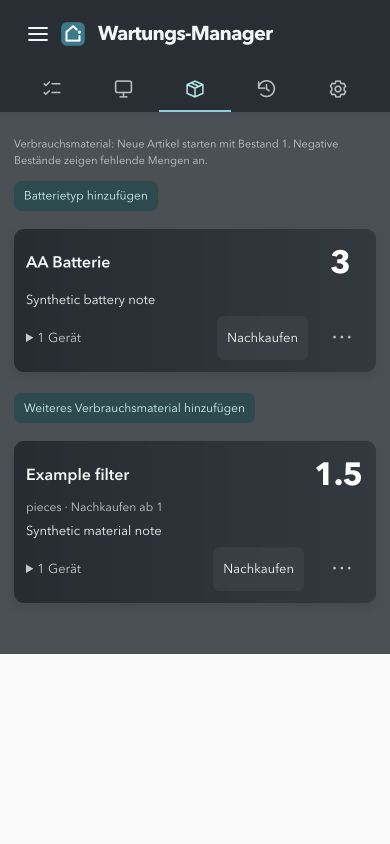
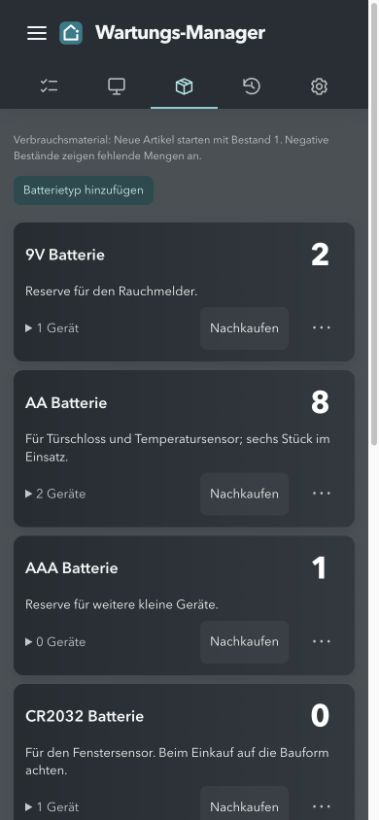
Automatische Abläufe und aussagekräftige Screenshots dokumentieren

diff --git a/scripts/seed_demo.py b/scripts/seed_demo.py
@@ -1,0 +1,141 @@
+"""Seed an isolated lifecycle-test container with entirely fictional German data.
+
+Run only inside a disposable container created by test_ha_lifecycle.py --keep:
+    docker exec CONTAINER python /qa/seed_demo.py
+There is deliberately no server URL option and no production credentials input.
+All writes use Home Assistant REST/WebSocket APIs, never its .storage files.
+"""
+from __future__ import annotations
+
+import asyncio
+from datetime import date, timedelta
+import json
+
+from aiohttp import ClientSession, ClientTimeout
+
+from ha_lifecycle_probe import API, STATE, check
+
+
+def months_before(day: date, months: int) -> date:
+    """Use a safe mid-month date for reproducible interval demonstrations."""
+    index = day.year * 12 + day.month - 1 - months
+    year, month = divmod(index, 12)
+    return date(year, month + 1, min(day.day, 28))
+
+
+async def main():
+    state = json.loads(STATE.read_text())
+    async with ClientSession(timeout=ClientTimeout(total=20)) as session:
+        api = API(session, state['token'])
+        config = await api.request('GET', '/api/config')
+        check(config.get('location_name') == 'Release validation', 'Not the isolated release-test installation')
+        previous = await api.action('export')
+        check(all(identity.startswith(('fixture-', 'demo-')) for identity in previous['devices']),
+              'Refusing to replace anything except synthetic test/demo devices')
+        await api.mutate('reset_all_data', confirmed=True, confirmation='DATEN ZURÜCKSETZEN')
+        helpers = await api.ws({'type': 'input_number/list'})
+        if not any(helper['id'] == 'batterien_schwellwert' for helper in helpers):
+            await api.ws({'type': 'input_number/create', 'name': 'Batterien Schwellwert', 'min': 0,
+                          'max': 100, 'step': 1, 'mode': 'slider', 'initial': 20, 'unit_of_measurement': '%'})
+        await api.request('POST', '/api/services/input_number/set_value',
+                          {'entity_id': 'input_number.batterien_schwellwert', 'value': 20})
+        await api.mutate('preferences', value={'currency': 'EUR',
+                         'battery_threshold_entity': 'input_number.batterien_schwellwert'})
+        await api.mutate('settings', value={'enabled': False, 'weekday': 0, 'time': '09:00'})
+        today = date.fromisoformat((await api.action('get', fields=['today']))['today'])
+        devices = [
+            {'id': 'demo-kaffee', 'name': 'Kaffeemaschine', 'manufacturer': 'Demotec', 'model': 'Aroma 7',
+             'category': 'Haushalt', 'notes': 'Fiktives Beispiel: Filter nach Herstellerangabe wechseln. Reinigung bei Geräteanzeige.'},
+            {'id': 'demo-spueler', 'name': 'Geschirrspüler', 'manufacturer': 'Klarwerk', 'model': 'Silent 60',
+             'category': 'Haushalt', 'notes': 'Fiktives Beispiel für eine wiederkehrende Wartungsrotation.'},
+            {'id': 'demo-wasser', 'name': 'Wasserenthärtungsanlage', 'manufacturer': 'Aquanova', 'model': 'Soft 25',
+             'category': 'Haushalt', 'notes': 'Vorrat im Salzbehälter prüfen und bei Bedarf nachfüllen.',
+             'related_devices': [{'id': 'demo-spueler'}]},
+            {'id': 'demo-fenster', 'name': 'Fenstersensor Arbeitszimmer', 'manufacturer': 'DemoSense', 'model': 'Contact 2',
+             'category': 'Tür- und Fenstermelder', 'battery_type': 'CR2032', 'battery_quantity': 1,
+             'battery_entity_id': 'sensor.demo_fenster_batterie', 'battery_alert_enabled': True,
+             'notes': 'Fiktiver Sensor. Der niedrige Batteriestand demonstriert die automatische Warnaufgabe.'},
+            {'id': 'demo-rauch', 'name': 'Rauchmelder Flur', 'manufacturer': 'DemoSafe', 'model': 'Smoke One',
+             'category': 'Gefahrenmelder', 'battery_type': '9V', 'battery_quantity': 1,
+             'battery_entity_id': 'sensor.demo_rauch_batterie', 'battery_alert_enabled': True},
+            {'id': 'demo-maeher', 'name': 'Rasenmäher', 'manufacturer': 'DemoGarden', 'model': 'Green 400',
+             'category': 'Garten', 'notes': 'Vor dem Saisonstart Messer, Räder und Gehäuse prüfen.'},
+            {'id': 'demo-schloss', 'name': 'Türschloss', 'manufacturer': 'DemoAccess', 'model': 'Entry 2',
+             'category': 'Zutritt', 'battery_type': 'AA', 'battery_quantity': 4,
+             'battery_entity_id': 'sensor.demo_schloss_batterie', 'battery_alert_enabled': True,
+             'related_devices': [{'id': 'demo-fenster'}]},
+            {'id': 'demo-thermo', 'name': 'Temperatursensor Wintergarten', 'manufacturer': 'DemoSense', 'model': 'Climate Mini',
+             'category': 'Temperatursensoren', 'battery_type': 'AA', 'battery_quantity': 2,
+             'battery_entity_id': 'sensor.demo_thermo_batterie', 'battery_alert_enabled': True},
+        ]
+        for device in devices:
+            await api.mutate('save_device', value=device)
+        for entity, value in [('fenster', 12), ('rauch', 88), ('schloss', 46), ('thermo', 64)]:
+            await api.request('POST', '/api/states/sensor.demo_' + entity + '_batterie',
+                              {'state': str(value), 'attributes': {'friendly_name': 'Demo Batteriestand',
+                               'unit_of_measurement': '%', 'device_class': 'battery'}})
+        await api.mutate('battery_inventory', stocks={'CR2032': 0, 'AA': 8, 'AAA': 1, '9V': 2},
+                         thresholds={'CR2032': 1, 'AA': 4, 'AAA': 2, '9V': 1},
+                         notes={'CR2032': 'Für den Fenstersensor. Beim Einkauf auf die Bauform achten.',
+                                'AA': 'Für Türschloss und Temperatursensor; sechs Stück im Einsatz.',
+                                'AAA': 'Reserve für weitere kleine Geräte.', '9V': 'Reserve für den Rauchmelder.'})
+        for material in [
+            {'id': 'demo-filter', 'name': 'Wasserfilter', 'unit': 'Stück', 'quantity': 1, 'threshold': 1,
+             'notes': 'Passend zur Demo-Kaffeemaschine. Ein Filter pro Wechsel.', 'device_ids': ['demo-kaffee']},
+            {'id': 'demo-salz', 'name': 'Regeneriersalz', 'unit': 'kg', 'quantity': 4.5, 'threshold': 5,
+             'notes': 'Tablettensalz trocken lagern. Nachkauf in 10-kg-Säcken.', 'device_ids': ['demo-wasser']},
+            {'id': 'demo-reiniger', 'name': 'Maschinenreiniger', 'unit': 'Flasche', 'quantity': 3, 'threshold': 1,
+             'notes': 'Eine Flasche pro Intensivreinigung. Packungsanleitung beachten.', 'device_ids': ['demo-spueler']},
+        ]:
+            await api.mutate('save_consumable', value=material)
+        coffee_completed = months_before(today - timedelta(days=3), 2)
+        dishwasher_completed = months_before(today - timedelta(days=2), 1)
+        rules = [
+            {'id': 'demo-filter-wechsel', 'device_id': 'demo-kaffee', 'name': 'Wasserfilter wechseln',
+             'kind': 'interval', 'months': 2, 'days': 0, 'first_due': coffee_completed.isoformat(),
+             'consumable': {'kind': 'material', 'id': 'demo-filter', 'quantity': 1}},
+            {'id': 'demo-spueler-pflege', 'device_id': 'demo-spueler', 'name': 'Maschinenpflege',
+             'kind': 'rotation', 'months': 1, 'first_due': dishwasher_completed.isoformat(),
+             'steps': ['Intensivreinigung', 'Sieb und Sprüharme reinigen'],
+             'consumables_by_step': {'Intensivreinigung': {'kind': 'material', 'id': 'demo-reiniger', 'quantity': 1}}},
+            {'id': 'demo-salz-pruefen', 'device_id': 'demo-wasser', 'name': 'Salz nachfüllen',
+             'kind': 'date', 'due_date': today.isoformat(),
+             'consumable': {'kind': 'material', 'id': 'demo-salz', 'quantity': 2.5}},
+            {'id': 'demo-rauch-test', 'device_id': 'demo-rauch', 'name': 'Funktionstest durchführen',
+             'kind': 'date', 'due_date': (today + timedelta(days=7)).isoformat()},
+            {'id': 'demo-maeher-service', 'device_id': 'demo-maeher', 'name': 'Saisonstart vorbereiten',
+             'kind': 'season', 'month': 3, 'day': 15, 'weekday': 5, 'first_cycle': today.year + 1},
+            {'id': 'demo-schloss-pruefen', 'device_id': 'demo-schloss', 'name': 'Zutrittscodes prüfen',
+             'kind': 'date', 'due_date': (today + timedelta(days=3)).isoformat(),
+             'booked': (today + timedelta(days=3)).isoformat()},
+        ]
+        for rule in rules:
+            await api.mutate('save_rule', value=rule)
+        await api.mutate('complete', rule_id='demo-filter-wechsel', operation_id='demo-filter-completion',
+                         event_date=coffee_completed.isoformat(), note='Wasserfilter wechseln — Filter eingesetzt und gespült.',
+                         consume_material=True)
+        await api.mutate('complete', rule_id='demo-spueler-pflege', operation_id='demo-clean-completion', cycle=0,
+                         event_date=dishwasher_completed.isoformat(), note='Reinigungsprogramm vollständig durchgeführt.',
+                         consume_material=True)
+        for log in [
+            {'id': 'demo-kauf', 'device_id': 'demo-kaffee', 'kind': 'purchase',
+             'event_date': (today - timedelta(days=240)).isoformat(), 'cost': 649,
+             'note': 'Kaffeemaschine gekauft. Fiktives Beispiel ohne Händlerbeleg.'},
+            {'id': 'demo-maeher-historie', 'device_id': 'demo-maeher', 'kind': 'maintenance',
+             'event_date': (today - timedelta(days=180)).isoformat(), 'cost': 79,
+             'note': 'Messer ersetzt, Gehäuse gereinigt und Funktionsprüfung durchgeführt.'},
+        ]:
+            await api.mutate('add_log', value=log)
+        result = await api.action('get')
+        check(len(result['devices']) == 8, 'Expected eight fictional devices')
+        check(len(result['rules']) == 6 and len(result['logs']) == 4, 'Expected six tasks and four history entries')
+        check(result['settings']['consumables']['demo-filter']['quantity'] == 0, 'Confirmed material consumption')
+        check(sum(not item.get('done') for item in result['shopping'].values()) == 4, 'Expected four automatic purchase reminders')
+        check(any(view['status'] == 'overdue' for view in result['views']), 'Expected overdue task')
+        check((await api.request('GET', '/api/states/sensor.demo_fenster_batterie'))['state'] == '12', 'Low-battery demo state')
+        print('PASS: 8 fictional devices, 6 tasks, 4 history entries, 4 automatic purchase reminders; battery example 12 % / 20 %')
+        print('Demo data is intentionally synthetic. REST-created battery states are temporary and disappear on restart.')
+
+
+if __name__ == '__main__':
+    asyncio.run(main())

diff --git a/README.md b/README.md
@@ -2,29 +2,128 @@
 
 <img src="custom_components/ha_wartung/brand/icon.png" alt="Wartungs-Manager-Symbol" width="64" height="64">
 
-Lokale Geräteakten, Wartungsaufgaben, Historie und Verbrauchsmaterial für Home Assistant.
+Automatisierte Wartungsplanung und Vorratsverwaltung für Home Assistant – mit Geräteakten, sensorabhängigen Aufgaben und einer nachvollziehbaren Historie.
+
+Einmal Regeln und Zuordnungen festlegen: Der Wartungs-Manager berechnet Fälligkeiten, zeigt Batteriewarnungen an und erstellt Nachkaufaufträge bei niedrigen Beständen. Bestätigte Erledigungen schreiben die Historie und die nächste Wartung fort; verknüpftes Verbrauchsmaterial wird nach deiner Bestätigung vom Bestand abgezogen.
 
 [English documentation](README.en.md) · [Problem melden](https://github.com/Raffaelloo22/homeassistant-wartungs-manager/issues)
 
-## Vorschau
+## Was automatisch passiert
 
-Die Bilder stammen aus einer isolierten Home-Assistant-Testinstallation mit erfundenen Einträgen. Die Integration startet ohne Gerätedaten.
+| Ablauf | Auslöser | Ergebnis |
+| --- | --- | --- |
+| **Wartungstermine berechnen** | Eine gespeicherte Regel und das aktuelle Datum | Fällige, überfällige und kommende Aufgaben werden einsortiert. Nach einer Erledigung werden Intervall, Saisonzyklus oder nächster Rotationsschritt berücksichtigt. |
+| **Sensorabhängig erinnern** | Ein zugeordneter numerischer Sensor meldet einen Wert unter der eingestellten Schwelle | Die Wartungsaufgabe wird fällig. Unbekannte oder ungültige Werte werden als ausstehend behandelt. |
+| **Batteriewechsel anzeigen** | Ein gültiger Batteriestand unterschreitet den gemeinsamen Home-Assistant-Schwellenwert | In der geöffneten Aufgabenansicht erscheint eine Batterieaufgabe mit Anzahl und Typ, sofern diese erfasst sind. Batteriestand und Warnschwelle sind nachvollziehbar sichtbar. |
+| **Materialverbrauch buchen** | Du erledigst eine verknüpfte Aufgabe und bestätigst den Bestandsabzug | Die vorgesehene Menge wird abgezogen und mit Material und Menge in der Historie dokumentiert. Der Dialog zeigt vorab den Bestand vorher und nachher. Bei Batterien stammt die Menge aus der Geräteakte. |
+| **Nachkaufaufträge erstellen** | Nach einer Bestandsänderung liegt ein Artikel auf oder unter seiner individuellen Nachkaufgrenze | Unter **Aufgaben → Nachkaufen** erscheint der passende Artikel. Nach einem eingetragenen Einkauf steigt sein Bestand; reicht er wieder über die Grenze, ist der automatische Nachkauf erledigt. |
+| **Geräteinformationen übernehmen** | Du bestätigst eine Sammelerfassung ausgewählter HA-Gerätetypen | Bezeichnung, Hersteller, Modell und HA-Verknüpfung werden übernommen; der Gerätetyp bestimmt eine passende Kategorie. Bestehende Zuordnungen und mögliche Dubletten werden erkannt. Bereiche folgen der HA-Gerätezuordnung. |
+| **Kaufdatum ergänzen** | Ein Kauf- oder Bestellereignis mit genauem Datum wird in der Historie erfasst | Ein noch leeres Kaufdatum der Geräteakte wird ergänzt. Ein vorhandenes Kaufdatum bleibt erhalten. |
+| **Wochenmeldung zusammenstellen** | Der eingestellte Wochentag und die Uhrzeit sind erreicht | Eine optionale Home-Assistant-Mitteilung fasst offene Wartungen und Nachkäufe zusammen. Dafür muss das Dashboard nicht geöffnet sein. |
 
-![Geräteübersicht auf dem Desktop](docs/images/devices-desktop.jpg)
+Die tatsächliche Erledigung, verbrauchte Mengen und Einkäufe werden von dir bestätigt. Ein Nachkaufauftrag ist eine Einkaufserinnerung; er bestellt keine Ware. Prozentbasierte Batteriewarnungen werden im geöffneten Dashboard berechnet. Gespeicherte Wartungsregeln und Bestandsbuchungen verarbeitet die Integration in Home Assistant.
 
-<img src="docs/images/consumables-mobile.jpg" alt="Kompakte Verbrauchsmaterialansicht auf dem Smartphone" width="320">
+## Screenshots
 
-## Funktionen
+Die drei Übersichtsbilder zeigen eine eingerichtete Installation. Geräteakte, Erledigungsdialog und Smartphone-Aufnahme stammen aus einer separaten Testinstanz mit erfundenen Daten. Eine neue Installation startet ohne Geräte oder Beispielaufgaben.
 
-- Geräte manuell erfassen oder mit Home-Assistant-Geräten verknüpfen; Sammelerfassung mit Vorschau und Duplikatprüfung.
-- Einmalige Termine, Intervalle, Saisonaufgaben, Rotationen und Aufgaben nach Sensorwert oder Geräteanzeige.
-- Erledigungen mit Datum, Kosten und Notizen dokumentieren; Historie bearbeiten und Bestandsabzüge bestätigen.
-- Batterien und weiteres Verbrauchsmaterial mit Mengen, Nachkaufgrenzen, Notizen und Gerätezuordnung verwalten.
-- Niedrige Batteriestände in der Aufgabenansicht anzeigen und Einkäufe vormerken.
-- Aktive Geräte, Lager, Archiv und Papierkorb; Kategorien und Ereignisarten bearbeiten.
-- JSON-Export und bestätigter Import sowie eine optionale Wochenmeldung innerhalb Home Assistant.
+**Aufgaben:** Fällige Arbeiten, Batterieanzahl und -typ sowie Nachkaufbedarf in einer Ansicht.
 
-Auf Smartphones sind die Reiter als Symbole dargestellt. Verbrauchsmaterial-Kacheln zeigen die antippbare Bestandszahl und eine kompakte Aktionszeile.
+![Aufgaben mit Wartungsterminen, Batterieangaben und Nachkäufen](docs/images/tasks-desktop.jpg)
+
+<details>
+<summary>Geräteübersicht mit Kategorien, Verbrauchsmaterial und Batterieangaben</summary>
+
+![Geräteübersicht mit Kategorien und Materialzuordnungen](docs/images/devices-desktop.jpg)
+
+</details>
+
+<details>
+<summary>Verbrauchsmaterial mit Batterien, eigenen Artikeln, Beständen und Nachkaufgrenzen</summary>
+
+![Batterien und weiteres Verbrauchsmaterial mit Beständen, Notizen und Aktionen](docs/images/consumables-desktop.jpg)
+
+</details>
+
+<details>
+<summary>Geräteakte mit Wartung und Historie – Beispiel mit Demodaten</summary>
+
+Die vergangene Filterwartung enthält den gebuchten Materialverbrauch. Aus ihrem Erledigungsdatum wird der nächste Intervalltermin berechnet. Das Kaufereignis ergänzt das Kaufdatum der Akte.
+
+![Geräteakte mit nächster Filterwartung, Kaufdatum und Historie](docs/images/device-detail-desktop.jpg)
+
+</details>
+
+<details>
+<summary>Erledigung mit Bestandsvorschau – Beispiel mit Demodaten</summary>
+
+Vor dem Speichern sind Datum, Materialmenge und resultierender Bestand sichtbar. Der Abzug kann abgewählt werden. Ein negativer Bestand kennzeichnet eine fehlende Menge.
+
+<img src="docs/images/completion-dialog.jpg" alt="Erledigungsdialog mit Datum und bestätigbarem Materialabzug" width="640">
+
+</details>
+
+<details>
+<summary>Verbrauchsmaterial auf dem Smartphone – Beispiel mit Demodaten</summary>
+
+<img src="docs/images/consumables-mobile.jpg" alt="Smartphone-Ansicht mit antippbaren Bestandszahlen, Notizen und kompakten Aktionen" width="320">
+
+</details>
+
+## Funktionen im Detail
+
+### Geräte und Home Assistant
+
+- Manuelle Geräteakten und direkt mit Home Assistant verknüpfte Geräte gemeinsam verwalten: Hersteller, Modell, Kaufdatum, Seriennummer, Batterieangaben und Notizen. Kosten lassen sich bei Historienereignissen erfassen.
+- HA-Geräte gesammelt übernehmen: nach Gerätetyp und Text suchen, pro Typ bereits erfasste Geräte, neue Kandidaten und Konflikte sehen und die Auswahl vor der Übernahme prüfen. Die Sammelerfassung ist wiederholbar und berücksichtigt auch Lager, Archiv und Papierkorb beim Duplikatschutz.
+- Geräte miteinander verknüpfen und die Verknüpfung von beiden Seiten bearbeiten; Gerät und zugehörige Komponenten über anklickbare Tags öffnen.
+- Nach Kategorie, HA-Bereich und Text filtern. Die Suche findet Namen auch ohne Akzente oder Umlaute.
+- Zwischen **Aktiv**, **Lager**, **Archiv** und **Papierkorb** wechseln. Lager und Archiv behalten ihre Akten und Historie, ohne Aufgaben in der aktiven Liste anzuzeigen. Geräte aus dem Papierkorb lassen sich wiederherstellen oder endgültig entfernen.
+- Auf Gerätekacheln Aufgabenanzahl, zugehöriges Verbrauchsmaterial sowie Batteriestand und Warnschwelle sehen.
+
+### Wartung nach Datum, Zyklus oder Sensor
+
+| Fälligkeitsregel | Verwendung |
+| --- | --- |
+| **Termin** | Einmalige Aufgabe an einem Datum. Nach der Erledigung bleibt der Eintrag in der Historie und verschwindet aus den offenen Aufgaben. |
+| **Intervall / Einplanen** | Wiederholung in Monaten und zusätzlichen Tagen ab der tatsächlichen letzten Erledigung. Ein erster Termin oder Planmonat ist möglich; ein noch unbekanntes Intervall bleibt zum Einplanen offen. |
+| **Saison** | Jährlich zu einem Kalenderdatum, optional auf einen bestimmten Wochentag in dessen Nähe gelegt. Unerledigte Jahreszyklen bleiben sichtbar. |
+| **Rotation** | Mehrere Arbeitsschritte abwechselnd in einem festen Monatsabstand ausführen. Nach der Erledigung folgt der nächste Schritt; nach dem letzten beginnt die Folge von vorne. |
+| **Messwert** | Fällig, sobald ein numerischer HA-Sensor die eingestellte Schwelle unterschreitet. Das Formular zeigt den aktuellen Sensorwert und die Einheit. |
+| **Nach Geräteanzeige** | Bei Bedarf gemäss Anzeige am Gerät erledigen. Aus mehreren Erledigungen wird ein unverbindlicher typischer Abstand ermittelt. |
+| **Ohne Fälligkeit** | Eine Arbeit ohne festen Termin vorhalten und bei Bedarf dokumentieren. |
+
+- Aufgaben sind nach **Jetzt erledigen**, **Termin vereinbart**, **Bald fällig**, **Geplant**, **Nach Geräteanzeige** und **Nachkaufen** geordnet, soweit sie zur aktuellen Auswahl passen.
+- **Jetzt** ist die Standardauswahl. **Bald** umfasst morgen bis einschliesslich in 14 Tagen, **Alle** zeigt alle offenen Aufgaben. Die Suche berücksichtigt Gerät und Aufgabentext.
+- Ein gebuchter Ausführungstermin lässt sich zusätzlich zur eigentlichen Fälligkeit erfassen.
+- Sensor und Verbrauchsmaterial über Suchfelder auswählen; bei Rotationen kann jeder Arbeitsschritt ein anderes Material verwenden.
+- Wiederkehrende, aktuell erledigte Aufgaben bleiben in der Geräteakte mit ihrem nächsten Termin zugänglich.
+
+### Verbrauchsmaterial und Nachkaufen
+
+- Batterietypen, Filter, Salz, Reinigungs- und Entkalkungsmittel oder andere eigene Artikel verwalten – jeweils mit Bestand, Nachkaufgrenze, Notizen und Gerätezuordnung.
+- Bei Batterien Typ und Anzahl pro Gerät getrennt erfassen. Geräte erscheinen anhand ihres Batterietyps automatisch in der Verwendungsliste; zusätzliche manuelle Zuordnungen sind möglich. **Geräte anzeigen** nennt die benötigte Batterieanzahl je Gerät. Fest verbaute Akkus werden nicht als Wechselbatterievorrat geführt.
+- Neue Batterietypen starten mit Bestand 1. Weitere Materialien unterstützen eigene Einheiten, Dezimalmengen und einen zunächst unbekannten Bestand; negative Bestände zeigen fehlende Mengen an.
+- Bestand direkt über die grosse Zahl bearbeiten. **Nachkaufen** erfasst auch unabhängig von der Grenze einen manuellen Nachkaufauftrag mit gewünschter Menge.
+- Aufgaben mit Material verknüpfen. Die Erledigung zeigt die Verbrauchsmenge und den resultierenden Bestand vor dem bestätigten Abzug. Eine Geräte-Material-Verknüpfung dient der Zuordnung; für den Verbrauch wird das Material zusätzlich mit der Aufgabe verknüpft.
+- **Eingekauft** fragt die tatsächlich gekaufte Menge ab und addiert sie zum Bestand. Automatische Nachkäufe bleiben bei weiterhin zu niedrigem Bestand offen. Artikelnotizen sind auch beim Nachkauf sichtbar und bearbeitbar.
+
+### Historie, Korrekturen und Rückgängig
+
+- Eine Erledigung erzeugt einen Historieneintrag mit dem ursprünglichen Aufgabentext und dem gewählten Datum. Datum per **Heute**, Tageswechsel oder Kalender wählen; Kosten und Notizen ergänzen.
+- Wartung, Reparatur, Prüfung, Kauf und eigene Ereignisarten nachtragen. In der Geräteakte steht die vollständige Historie. **Log** bündelt die Wartungs- und weiteren Serviceereignisse mit Datum, Erfassungszeit, Textsuche und Gerätelink; Kauf- und reine Notizeinträge stehen in der Geräteakte.
+- Historieneinträge bearbeiten oder entfernen. Verknüpfte Wartungsdaten werden nachgeführt; beim Entfernen eines gebuchten Verbrauchs wird die protokollierte Menge dem aktuellen Bestand wieder gutgeschrieben.
+- Eine gerade gespeicherte Erledigung für 30 Sekunden mit **Rückgängig** zurücknehmen. Dabei werden auch zugehöriger Materialverbrauch und Aufgabenzustand zurückgesetzt. Zwischenzeitliche Änderungen werden geschützt.
+
+### Einstellungen und Datenqualität
+
+- Kategorien und Ereignisarten hinzufügen, umbenennen, entfernen und per Drag-and-drop sortieren; die jeweilige Anzahl zugehöriger Einträge sehen.
+- Batterieschwelle per Schieberegler direkt mit einem Home-Assistant-Helfer synchronisieren. Den Standardhelfer prüft und erstellt das geöffnete Dashboard bei Bedarf selbst; alternativ kann ein vorhandener Helfer gewählt werden.
+- Währung sowie Tag und Uhrzeit der Wochenmeldung einstellen; eine Testmeldung auslösen.
+- **Datenprüfung** aufrufen: fehlende HA-Geräte und Sensoren, unvollständige Batterieangaben, ungültige Materialzuordnungen, verwaiste Verknüpfungen und mögliche Dubletten mit Links zu den betroffenen Akten prüfen. Die Prüfung verändert keine Daten.
+- Verzeichnis inklusive Einstellungen als JSON exportieren und nach ausdrücklicher Bestätigung wiederherstellen. **Daten zurücksetzen** entfernt Gerätedaten, Aufgaben und Vorräte; Kategorien, Ereignisarten und allgemeine Einstellungen bleiben erhalten.
+
+Auf Desktop und Smartphone bleiben dieselben Funktionen verfügbar. Auf dem Smartphone verwenden die Reiter Symbole und Verbrauchsmaterial-Kacheln eine kompakte Aktionszeile. Die geöffnete Oberfläche aktualisiert Daten regelmässig und übernimmt Batteriewerte aus Home Assistant; offene Formulare werden dabei geschützt.
 
 ## Voraussetzungen
 

diff --git a/README.en.md b/README.en.md
@@ -2,26 +2,73 @@
 
 <img src="custom_components/ha_wartung/brand/icon.png" alt="Wartungs-Manager icon" width="64" height="64">
 
-A local maintenance dashboard for Home Assistant: device records, recurring and one-off tasks, service history, batteries and other consumables.
+Automated maintenance planning and consumable stock management for Home Assistant, with device records, sensor-based tasks and an editable service history.
+
+Configure rules and links once: Wartungs-Manager calculates due dates, displays battery warnings and creates purchase reminders when stock runs low. Confirmed completions record history, advance recurring work and optionally deduct linked materials.
 
 [Deutsche Anleitung](README.md) · [Report a problem](https://github.com/Raffaelloo22/homeassistant-wartungs-manager/issues)
 
-## Preview
+## Automatic workflows
 
-Screenshots from an isolated Home Assistant test installation using fictitious records. The installed integration starts empty.
+| Workflow | What happens |
+| --- | --- |
+| **Due dates and cycles** | Saved rules calculate overdue, current and future work. Completing an interval task schedules its next date from the actual completion. Seasonal cycles and rotating work steps advance when completed. |
+| **Sensor-based maintenance** | A valid numeric Home Assistant sensor reading strictly below the configured threshold makes a task due. Unavailable or invalid readings remain pending. |
+| **Battery warnings** | The open dashboard adds a battery-change task when a valid percentage is strictly below the shared helper value. Battery quantity and type come from the device record. |
+| **Confirmed stock usage** | A completion can deduct its linked material. Battery quantity comes from the device; other material quantities come from the task or current rotation step. The dialog previews the resulting stock before confirmation. |
+| **Purchase reminders** | Stock at or below an item's threshold creates a purchase reminder. A recorded purchase adds the entered quantity; the automatic reminder is complete once stock exceeds the threshold. |
+| **Device capture** | Confirmed bulk capture classifies selected HA devices, suggests categories and checks existing links and possible duplicates. Areas follow the linked HA device. |
+| **Purchase dates** | A dated purchase/order event fills an empty device purchase date while preserving an existing date. |
+| **Weekly summary** | An optional scheduled Home Assistant persistent notification summarizes stored maintenance tasks and open purchases, even while the dashboard is closed. |
 
-![Device directory on desktop](docs/images/devices-desktop.jpg)
+Completions, consumption and purchases need your confirmation. Purchase reminders do not place orders. Percentage-based battery warnings are calculated in the open dashboard and are not part of the background weekly summary.
 
-<img src="docs/images/consumables-mobile.jpg" alt="Compact consumable inventory on a phone" width="320">
+## Screenshots
+
+The three overview images show a configured installation. The device record, completion dialog and phone view use fictional records in an isolated test installation. New installations start empty.
+
+![Tasks with due dates, battery quantities and purchase reminders](docs/images/tasks-desktop.jpg)
+
+<details>
+<summary>Device overview</summary>
+
+![Devices grouped by category, with consumables and battery information](docs/images/devices-desktop.jpg)
+
+</details>
+
+<details>
+<summary>Battery and consumable inventory</summary>
+
+![Stock, purchase thresholds, notes and inventory actions](docs/images/consumables-desktop.jpg)
+
+</details>
+
+<details>
+<summary>Device record and completion dialog — fictional examples</summary>
+
+![Device record showing purchase date, recurring work and recorded material consumption](docs/images/device-detail-desktop.jpg)
+
+<img src="docs/images/completion-dialog.jpg" alt="Completion dialog with date, material quantity and stock preview" width="640">
+
+</details>
+
+<details>
+<summary>Phone layout — fictional example</summary>
+
+<img src="docs/images/consumables-mobile.jpg" alt="Compact stock buttons, notes and actions on a phone" width="320">
+
+</details>
 
 ## What it does
 
 - Keep manual device records or link them to Home Assistant devices. Import selected Home Assistant device types with a preview and duplicate checks.
-- Plan tasks by date, interval, season, rotation, sensor value or device indication. Record completion dates, costs and notes, and edit the resulting history.
+- Plan tasks by one-off date, interval, annual season, rotating work steps, sensor value, device indication or without a due date. A rotation can link a different material to each step. Record completion dates, costs and notes, and edit the resulting history.
 - Link tasks to batteries or other consumables. Confirm stock deductions on completion; quantities for batteries come from the device record.
-- Track stock, purchase thresholds, purchase requests, notes and the devices that use each item.
+- Track stock, individual purchase thresholds, purchase requests, notes and the devices that use each item. Battery usage lists include the required quantity per device; linked purchase notes are shared with the material.
 - Find low batteries in the task view using a shared Home Assistant threshold helper.
-- Organize devices as active, stored, archived or in the trash; edit categories and event types.
+- Organize devices as active, stored, archived or in the trash; link related devices in both directions, and edit or reorder categories and event types. Stored and archived devices retain history without active reminders.
+- Run a read-only data check for missing HA links, invalid material assignments, incomplete battery details and possible duplicates.
+- Undo a recent completion for 30 seconds, including its associated stock deduction. History corrections update linked maintenance state; removing a recorded consumption returns its quantity to current stock.
 - Export and import the directory as JSON. An optional weekly summary appears as a Home Assistant persistent notification.
 
 The dashboard has **Aufgaben** (tasks), **Geräte** (devices), **Verbrauchsmaterial** (consumables), **Log** and **Einstellungen** (settings). On phones, the tabs use icons and consumables use compact cards with a stock button and an actions menu.

diff --git a/CONTRIBUTING.md b/CONTRIBUTING.md
@@ -26,9 +26,21 @@ Das Testskript erstellt eine isolierte temporäre Konfiguration, bindet den Zugr
 
 Behalte die Domäne `ha_wartung` und die Kompatibilität mit gespeicherten Daten bei. Neue Einstellungen benötigen Standardwerte, die bestehende Installationen erhalten. Ändere Geräte-, Entitäts- oder Helferkennungen nicht automatisch.
 
+## Demo für Screenshots
+
+Eine getrennte Testinstallation mit erfundenen Geräten, Wartungen, Batteriewarnung und automatischen Nachkäufen lässt sich so vorbereiten:
+
+```sh
+python3 scripts/test_ha_lifecycle.py --version 2026.11.2 --keep
+# Den vom Test ausgegebenen Containernamen einsetzen:
+docker exec CONTAINER python /qa/seed_demo.py
+```
+
+`seed_demo.py` ersetzt ausschliesslich die künstlichen Daten einer erkannten Release-Testinstallation. Es hat keine Server-URL-Option und nimmt keine Produktionszugangsdaten entgegen. Die erzeugten Batterie-Sensorzustände dienen nur der Demonstration und verschwinden beim Neustart. Testcontainer nach den Aufnahmen wieder entfernen. Die drei bereitgestellten Übersichtsbilder in der README zeigen eine eingerichtete Installation; die ergänzenden Detail- und Smartphone-Aufnahmen stammen aus dieser Demo.
+
 ## Testdaten und Meldungen
 
-Verwende erfundene Namen, Beispielkennungen und reservierte Beispiel-URLs. Nimm keine echten Exporte, `.storage`-Dateien, Zugriffstoken, Gerätefotos oder Bildschirmfotos aus einem Haushalt ins Repository auf. Tests sollen das Verhalten prüfen und nicht lediglich die Implementierung nachbilden.
+Verwende erfundene Namen, Beispielkennungen und reservierte Beispiel-URLs. Nimm keine echten Exporte, `.storage`-Dateien, Zugriffstoken oder Gerätefotos ins Repository auf. Dokumentations-Screenshots stammen aus der Demo oder wurden ausdrücklich für die öffentliche Dokumentation bereitgestellt; die Herkunft wird in der README kenntlich gemacht. Tests sollen das Verhalten prüfen und nicht lediglich die Implementierung nachbilden.
 
 Prüfe bei Änderungen am Dashboard sowohl eine schmale Smartphone-Ansicht als auch eine Desktop-Ansicht. Bedienelemente müssen mit Tastatur und Touch funktionieren; endgültige Änderungen benötigen eine klare Bestätigung.
 
